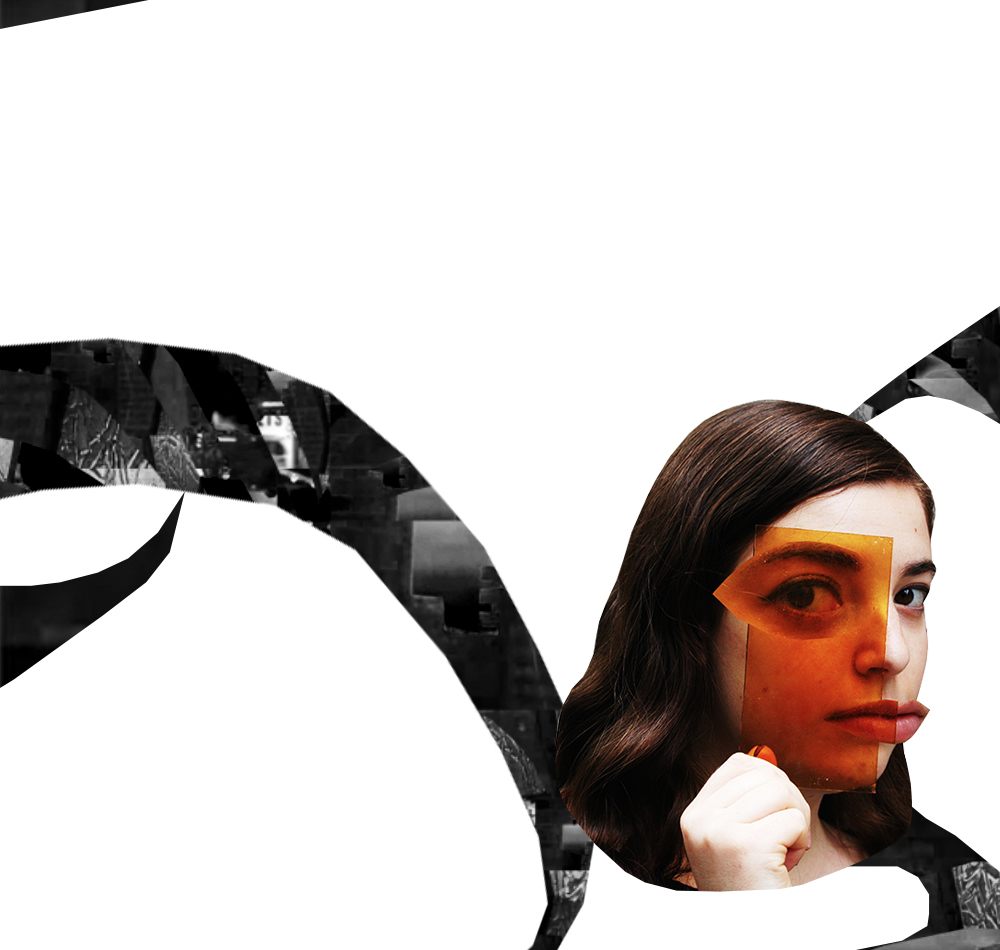
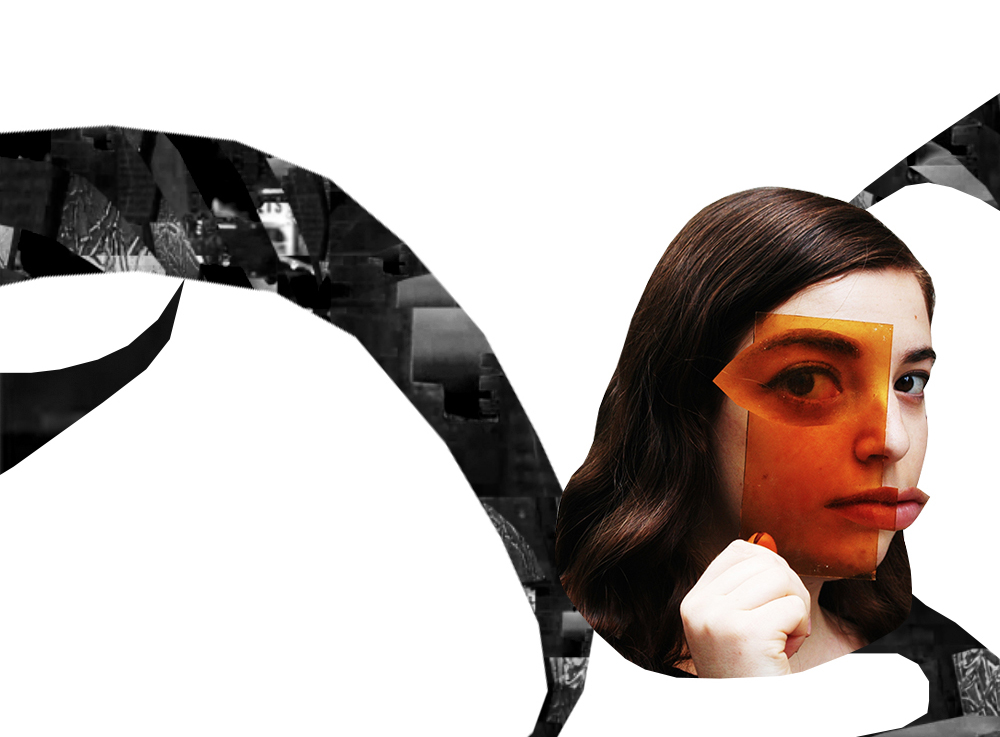
msg ...

diff --git a/wallpaper/1.html b/wallpaper/1.html
@@ -18,18 +18,21 @@
 		
 		<h2 class="left-nav"><a href="../wallpaper/2.html">REVERSE</a></h2>
 		
+		
+		
+		
 	<div class="container">
       <div class="leftcentered-box">
          A colonial mansion, a hereditary estate, I would say a haunted house, and reach the height of romantic felicity- but that would be asking too much of fate! Still I will proudly declare that there is something queer about it. Else, why should it be let so cheaply? And why have stood so long untenanted? John laughs at me, of course, but one expects that in marriage. John is practical in the extreme. He has no patience with faith, an intense horror of superstition, and he scoffs openly at any talk of things not to be felt and seen and put down in figures. John is a physician, and perltaps - (I would not say it to a living soul, of course, but this is dead paper and a great relief to my mind - ) perhaps that is one reason I do not get well faster. You see he does not believe I am sick! And what can one do? 
 
 		If a physician of high standing, and one’s own husband, assures friends and relatives that there is really nothing the matter with one but temporary nervous depression - a slight hysterical tendency - what is one to do? My brother is also a physician, and also of high standing, and he says thesame thing. 
 
-		So I take phosphates or phosphites whichever it is, and tonics, and journeys, and air, and exercise, and am absolutely forbidden to “work” until I am well again. Personally, I disagree with their ideas. Personally, I believe that congenial work, with excitement and change, would do me good. 	But what is one to do? I did write for a while in spite of them; but it does exhaust me a good deal-having to be so sly about it, or else meet with heavy opposition.  spite of them; but it does exhaust me a good deal-having to be so sly about it, or else meet with heavy opposition. I sometimes fancy that in my condition if I had less opposition and more society and stimulus - but John says the very worst thing I can do is to think about my condition, and I confess it always makes me feel bad. So I will let it alone and talk about the house. The most beautiful place! It is quite alone, standing well back from the road, quite three miles from the village. It makes me think of English places that you read about, for there are hedges and walls and gates that lock, and lots of separate little houses for the gardeners and people. There is a delicious garden! I never saw such a garden -large and shady, full of box-bordered paths, and lined with long grape-covered arbors with seats under them. There were greenhouses, too, but they are all broken now. There was some legal trouble, I believe, something about the heirs and coheirs; anyhow, the place has been empty for years. That spoils my ghostliness, I am afraid, but I don’t care - there is something strange about the house - I can feel it. I even said so to John one moonlight evening, but he said what I felt was a draught, and shut the window. I get unreasonably angry with John sometimes. I’m sure I never used to be so sensitive. I think it is due to this nervous condition. But John says if I feel so, I shall neglect proper self-control; so I take pains to control myself-before him, at least, and that makes me very tired. I don’t like our room a bit. I wanted one downstairs that opened on the piazza and had roses all over the window, and such pretty old-fashioned chintz hangings! but John would not hear of it. He said there was only one window and not room for two beds, and no near room for him if he took another. He is very careful and loving, and hardly lets me stir without special direction.
+		So I take phosphates or phosphites whichever it is, and tonics, and journeys, and air, and exercise, and am absolutely forbidden to “work” until I am well again. Personally, I disagree with their ideas. Personally, I believe that congenial work, with excitement and change, would do me good. 	But what is one to do? I did write for a while in spite of them; but it does exhaust me a good deal-having to be so sly about it, or else meet with heavy opposition.  spite of them; but it does exhaust me a good deal-having to be so sly about it, or else meet with heavy opposition. I sometimes fancy that in my condition if I had less opposition and more society and stimulus - but John says the very worst thing I can do is to think about my condition, and I confess it always makes me feel bad. So I will let it alone and talk about the house. The most beautiful place! It is quite alone, standing well back from the road, quite three miles from the village. It makes me think of English places that you read about, for there are hedges and walls and gates that lock, and lots of separate little houses for the gardeners and people. There is a delicious garden! I never saw such a garden -large and shady, full of box-bordered paths, and lined with long grape-covered arbors with seats under them. There were greenhouses, too, but they are all broken now. There was some legal trouble, I believe, something about the heirs and coheirs; anyhow, the place has been empty for years. That spoils my ghostliness, I am afraid, but I don't care - there is something strange about the house - I can feel it. I even said so to John one moonlight evening, but he said what I felt was a draught, and shut the window. I get unreasonably angry with John sometimes. I’m sure I never used to be so sensitive. I think it is due to this nervous condition. But John says if I feel so, I shall neglect proper self-control; so I take pains to control myself-before him, at least, and that makes me very tired. I don’t like our room a bit. I wanted one downstairs that opened on the piazza and had roses all over the window, and such pretty old-fashioned chintz hangings! but John would not hear of it. He said there was only one window and not room for two beds, and no near room for him if he took another. He is very careful and loving, and hardly lets me stir without special direction.
 	
 
       <div class="rightcentered-box">
       
-		I sometimes fancy that in my condition if I had less opposition and more society and stimulus - but John says the very worst thing I can do is to think about my condition, and I confess it always makes me feel bad. So I will let it alone and talk about the house. The most beautiful place! It is quite alone, standing well back from the road, quite three miles from the village. It makes me think of English places that you read about, for there are hedges and walls and gates that lock, and lots of separate little houses for the gardeners and people. There is a delicious garden! I never saw such a garden -large and shady, full of box-bordered paths, and lined with long grape-covered arbors with seats under them. There were greenhouses, too, but they are all broken now. There was some legal trouble, I believe, something about the heirs and coheirs; anyhow, the place has been empty for years. That spoils my ghostliness, I am afraid, but I don’t care - there is something strange about the house - I can feel it. I even said so to John one moonlight evening, but he said what I felt was a draught, and shut the window. I get unreasonably angry with John sometimes. I’m sure I never used to be so sensitive. I think it is due to this nervous condition. But John says if I feel so, I shall neglect proper self-control; so I take pains to control myself-before him, at least, and that makes me very tired. I don’t like our room a bit. I wanted one downstairs that opened on the piazza and had roses all over the window, and such pretty old-fashioned chintz hangings! but John would not hear of it. He said there was only one window and not room for two beds, and no near room for him if he took another. He is very careful and loving, and hardly lets me stir without special direction.
+		I sometimes fancy that in my condition if I had less opposition and more society and stimulus - but John says the very worst thing I can do is to think about my condition, and I confess it always makes me feel bad. So I will let it alone and talk about the house. The most beautiful place! It is quite alone, standing well back from the road, quite three miles from the village. It makes me think of English places that you read about, for there are hedges and walls and gates that lock, and lots of separate little houses for the gardeners and people. There is a delicious garden! I never saw such a garden -large and shady, full of box-bordered paths, and lined with long grape-covered arbors with seats under them. There were greenhouses, too, but they are all broken now. There was some legal trouble, I believe, something about the heirs and coheirs; anyhow, the place has been empty for years. That spoils my ghostliness, I am afraid, but I don't care - there is something strange about the house - I can feel it. I even said so to John one moonlight evening, but he said what I felt was a draught, and shut the window. I get unreasonably angry with John sometimes. I’m sure I never used to be so sensitive. I think it is due to this nervous condition. But John says if I feel so, I shall neglect proper self-control; so I take pains to control myself-before him, at least, and that makes me very tired. I don’t like our room a bit. I wanted one downstairs that opened on the piazza and had roses all over the window, and such pretty old-fashioned chintz hangings! but John would not hear of it. He said there was only one window and not room for two beds, and no near room for him if he took another. He is very careful and loving, and hardly lets me stir without special direction.
 		But what is one to do? I did write for a while inI have a schedule prescription for each hour in the day; he takes all care from me, and so I feel basely ungrateful not to value it ·more. He said we came here solely on my account, that I was to have perfect rest and all the air I could get. “Your exercise depends on your strength, my dear,” said he,” and your food somewhat on your appetite; but air you can absorb all the time.” So we took the nursery at the top of the house. It is a big, airy room, the whole floor nearly, with windows that look all ways, and air and sunshine galore. It was nursery first and then playroom and gymnasium, I should judge; for the windows are barred for little children, and there are rings and things in the walls. The paint and paper look as if a boys’ school had used it. It is stripped off the paper - in great patches all around the head of my bed, about as far as I can reach, and in a great place on the other side of the room low down. I never saw a worse paper in my life. One of those sprawling flamboyant
 		patterns committing every artistic sin. It is dull enough to confuse the eye infollowing, pronounced enough to constantly irritate and provoke study, and when you follow the lame uncertain curves for a little distance they suddenly commit suicide - plunge off at outrageous angles, destroy themselves in unheard of contradictions. The color is repellant, almost revolting; a smouldering unclean yellow, strangely faded by the slow-turning sunlight.
       </div>

diff --git a/wallpaper/welcome.css b/wallpaper/welcome.css
@@ -59,18 +59,28 @@ body
 /*        background-size: cover;*/
 /*        z-index: -1;*/
 /*    }*/
-    
-.welcome { 
-  top:0;
-  position:absolute;
-  background: url(welcome.jpg) repeat-y 0 0; 
+
+
+html { 
+  background: url(welcome.jpg) no-repeat center center fixed; 
   -webkit-background-size: cover;
   -moz-background-size: cover;
   -o-background-size: cover;
   background-size: cover;
-  width:100%;
-  min-height:700px;
-  z-index:-1;
-  margin:0;
-  padding:0;
 }
+    
+/*.welcome { */
+/*  top:0;*/
+/*  position:absolute;*/
+/*  background: url(welcome.jpg) repeat-y 0 0; */
+/*  -webkit-background-size: cover;*/
+/*  -moz-background-size: cover;*/
+/*  -o-background-size: cover;*/
+/*  background-size: cover;*/
+/*  width:100%;*/
+/*  min-height:700px;*/
+/*  z-index:-1;*/
+/*  margin:0;*/
+/*  padding:0;*/
+/*  overflow:hidden;*/
+/*}*/

diff --git a/wallpaper/1.css b/wallpaper/1.css
@@ -1,10 +1,18 @@
-html { 
-  background: url(1.jpg) no-repeat center center fixed; 
+.welcome { 
+  top:0;
+  position:absolute;
+  background: url(welcome.jpg) repeat-y 0 0; 
   -webkit-background-size: cover;
   -moz-background-size: cover;
   -o-background-size: cover;
   background-size: cover;
+  width:100%;
+  min-height:700px;
+  z-index:-1;
+  margin:0;
+  padding:0;
 }
+
 
 a:link {
     text-decoration: none;
@@ -68,6 +76,10 @@ body
   padding: 160px;
   padding-top: 0px;
   text-align: justify;
+  
+  -ms-transform: skewX(20deg); /* IE 9 */
+    -webkit-transform: skewX(20deg); /* Safari */
+    transform: skewX(20deg);
 
 }
 
